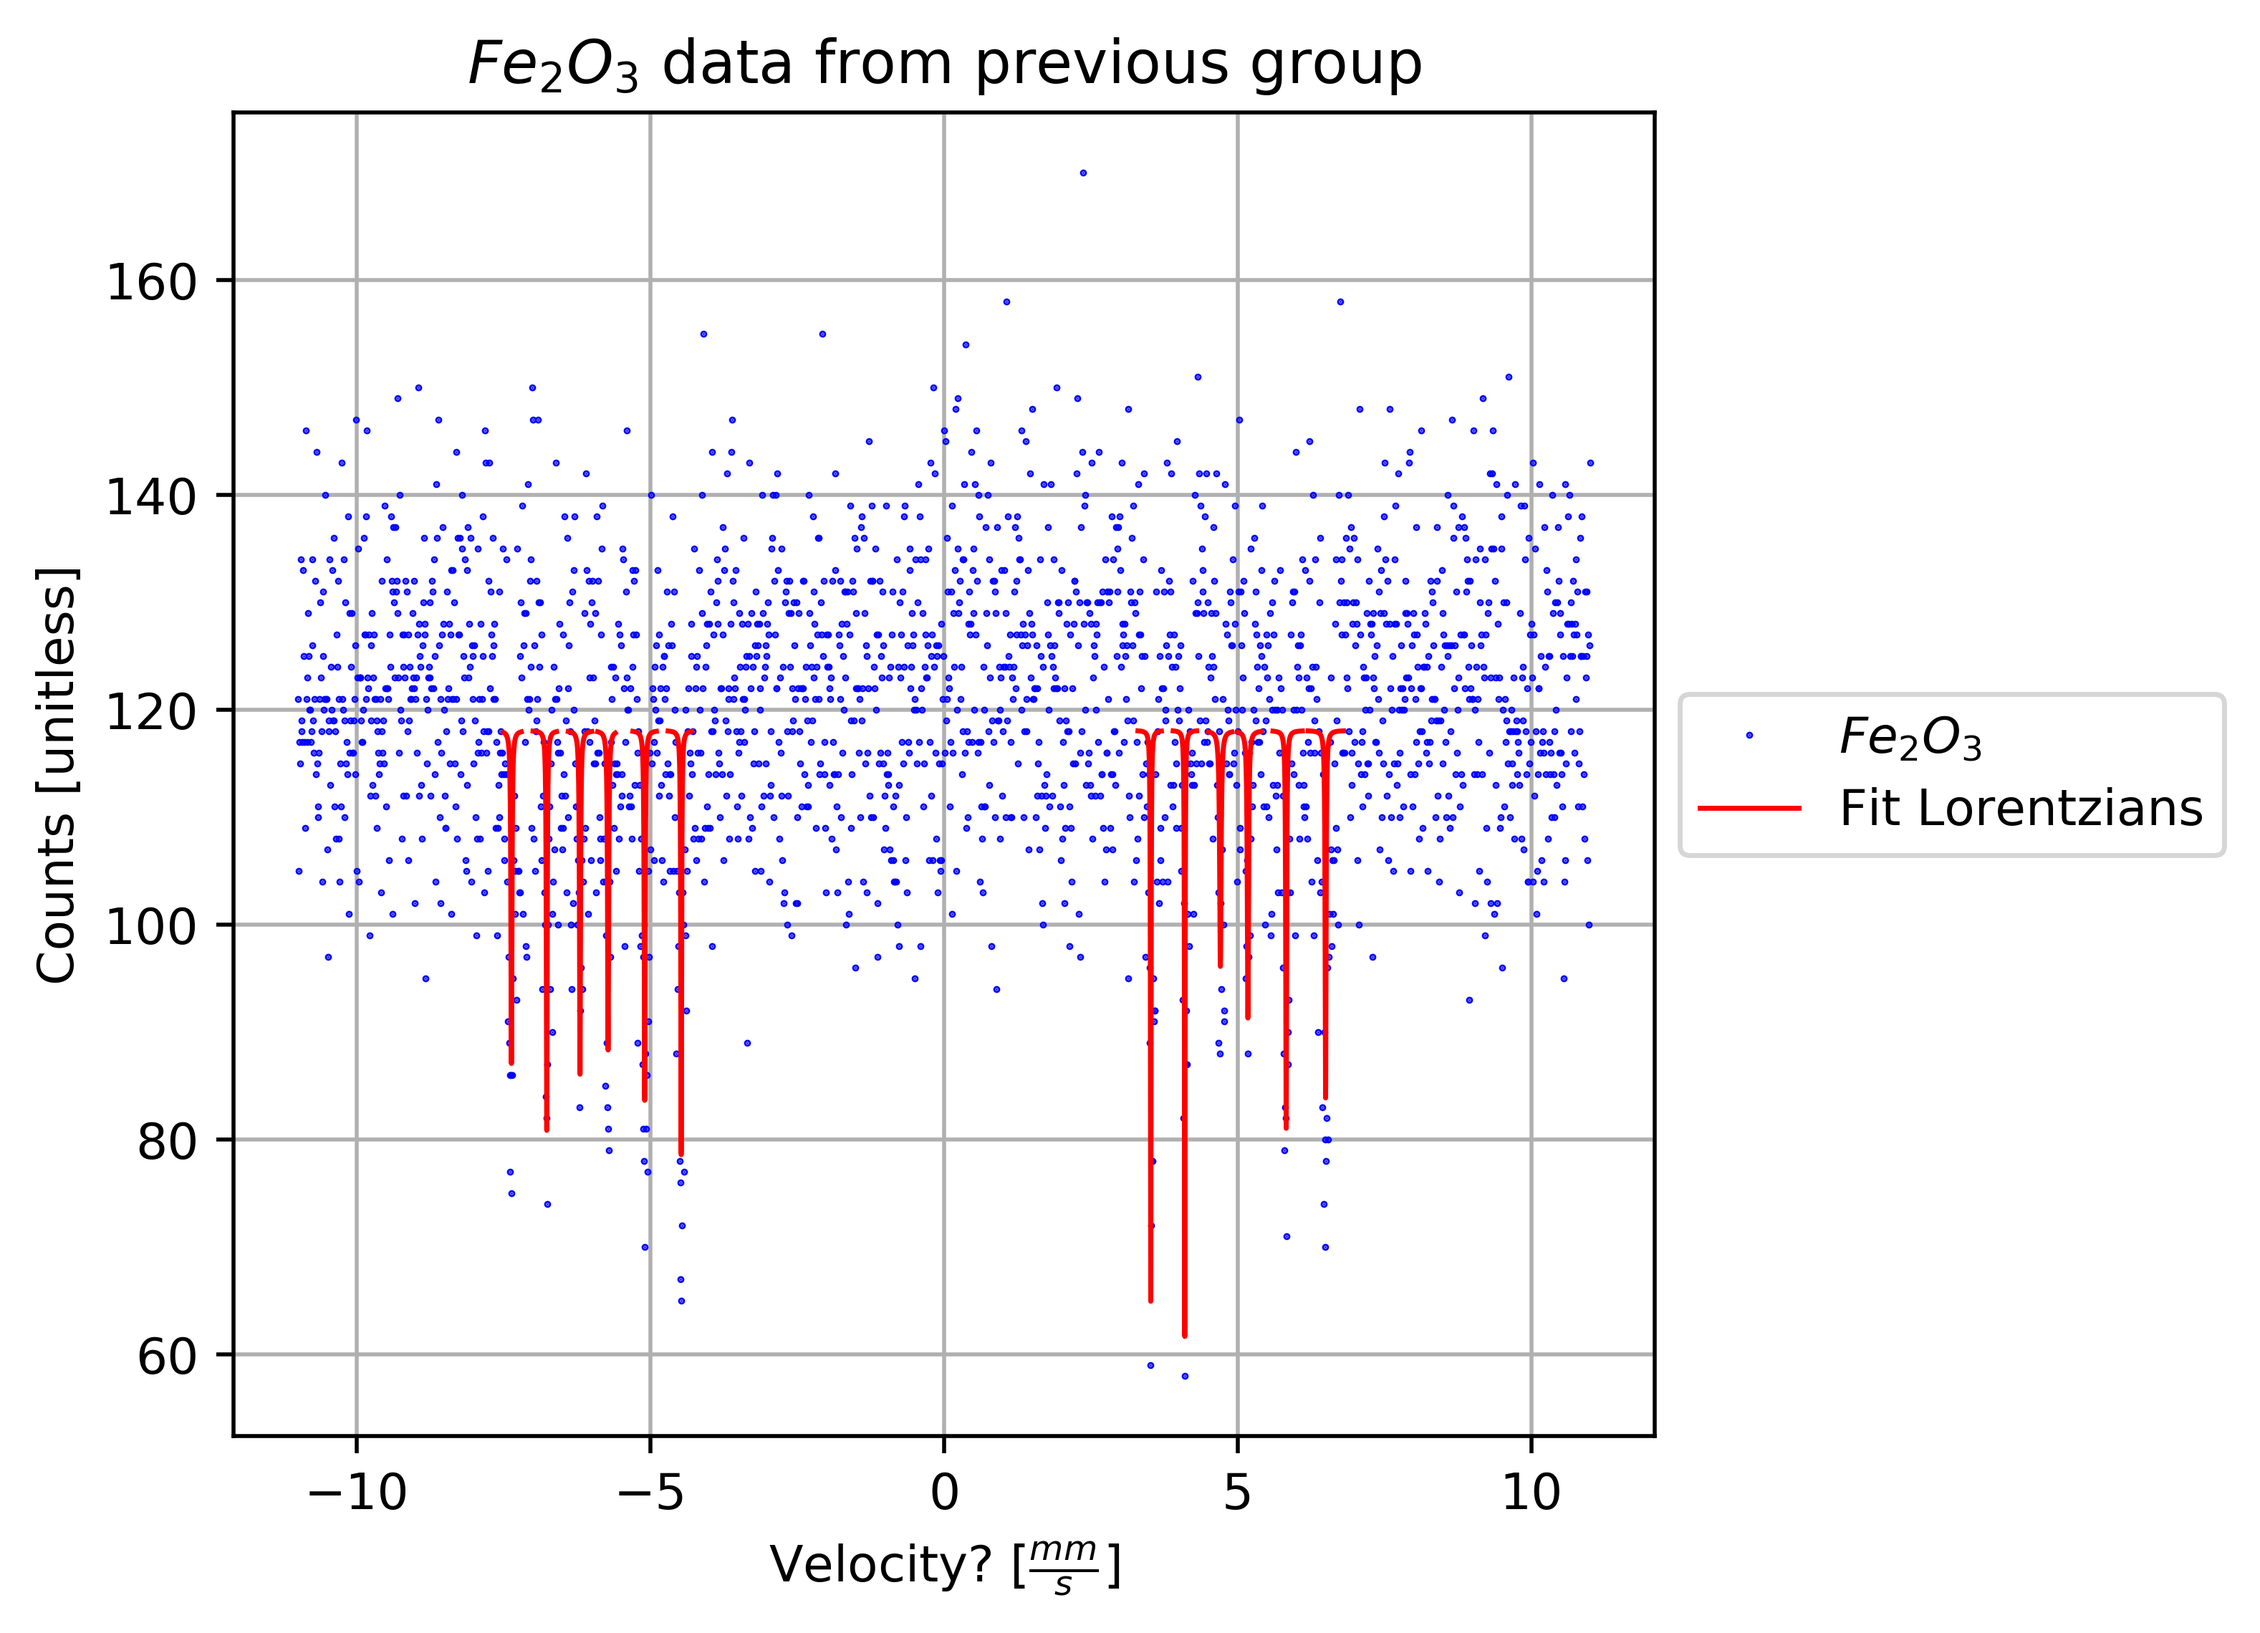
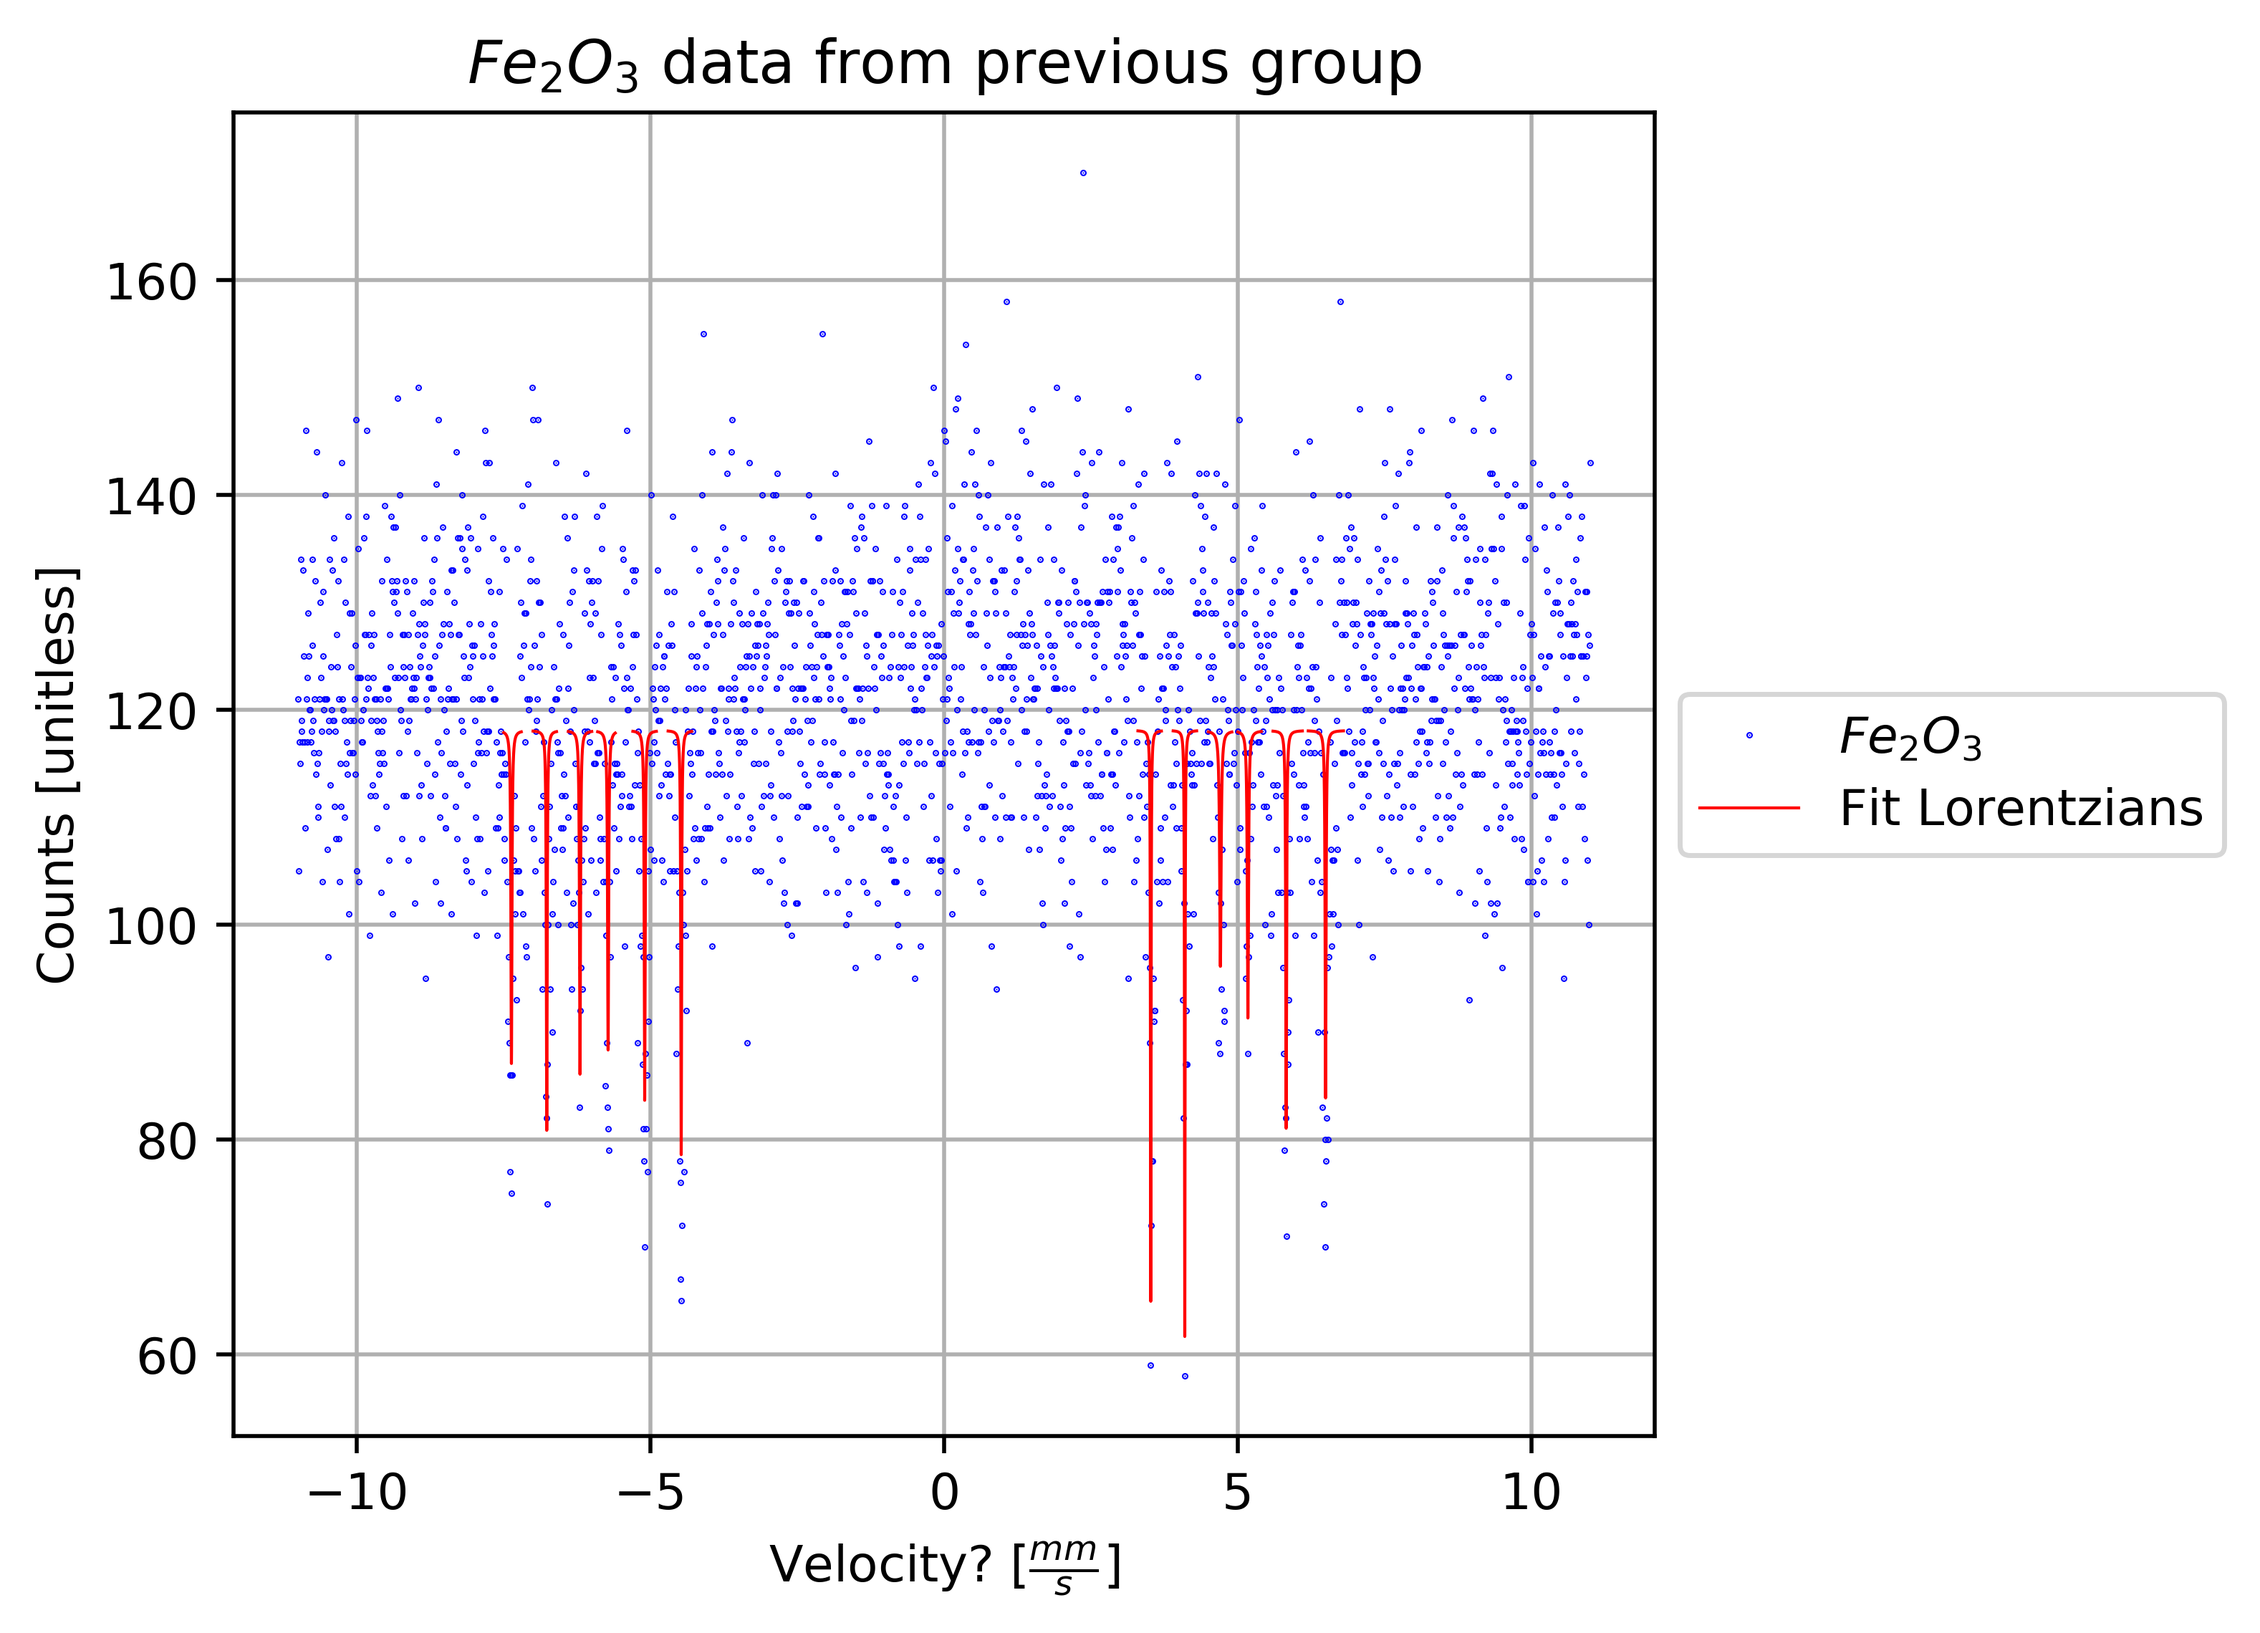
Refined script to only fit once
also writes fitting results to file

diff --git a/MossbauerScript.py b/MossbauerScript.py
@@ -105,14 +105,11 @@ def convertToVelocity(xBins, lims=[-11,11]):
 # 	f.write(str(testX[i])+"	"+str(testY[i])+"\n")
 # f.close()
 
-
-
 # sixdat = rp.readColumnFile(dataFolder+"testsixpeaks.dat")
 # Xs, Ys = sixdat[0], sixdat[1]
 # rp.plotInit(xAx=r"Xs [unitless]", yAx=r"Ys [unitless]",plotTitle=r"test six lorentzians")
 # rp.plotData(Xs, Ys, 0, 0, dataLabel=r"default", colour="Blue")
 # rp.plotOutput(plotsFolder+"testsixpeaks.png")
-
 
 # # quick simple lorentzian line shape test data written to file and plotted from file
 # xData = [i*0.1 for i in range(0,100)]
@@ -129,6 +126,7 @@ def convertToVelocity(xBins, lims=[-11,11]):
 # rp.plotData(Xs, Ys, 0, 0, dataLabel=r"default", colour="Blue")
 # rp.plotOutput(plotsFolder+"testplot.png")
 # ################### End of code to create the test data files ###############################
+
 
 
 # #################### Fit six Lorentzians ####################
@@ -150,6 +148,7 @@ def convertToVelocity(xBins, lims=[-11,11]):
 # 	rp.plotData(x, fitys, 0, 0, dataLabel=r"Fits", colour="Orange",lines = 'True')
 # rp.plotOutput()
 # ################### End Fit six Lorentzians ####################
+
 
 
 # organized the cuts and guesses into order, should be very accurate to true values
@@ -184,58 +183,10 @@ cuts = [
 # 		]
 
 
-#Good guesses (work for Jake)
-# cuts = [[6.2, 6.8], [5.6, 6.0], [5.10, 5.23], [4.63, 4.80], [3.95, 4.25], [3.4, 3.67]]
-# guesses = [[6.5, 70, 100], [5.8, 71, 100], [5.17, 88, 100], [4.7, 85, 100], [4.1, 55, 100], [3.51, 60, 100]]
-
-
 # Read in Data:
 dat = readCSV(dataFolder+"Fe2O3_05-02-2019_new.csv")
 xData, yData, yErr, time = dat[0], dat[1], dat[2], dat[3]
 xData = convertToVelocity(xData, [-11,11])
-
-# Plot Data:
-
-# # Plot Fits:
-# rp.plotInit(xAx=r"Velocity? $[\frac{mm}{s}]$", yAx=r"Counts [unitless]",plotTitle=r"$Fe_2O_3$ data from previous group")
-# rp.plotData(xData, yData, 0, yErr, dataLabel=r"$Fe_2O_3$", colour="Blue")
-# for i in rel(cuts):
-# 	fitX, fitY, popt, pcov = fitOneLorentzian(xData, yData, yErr, cut=cuts[i])#, guess=guesses[i], bounds=([cuts[i][0],-np.inf,100],[cuts[i][1],np.inf,140]))
-# 	if i == 0:
-# 		rp.plotData(fitX, fitY, 0, 0, dataLabel=r"Fit Lorentzians", colour="Red", lines=True)
-# 	else:
-# 		rp.plotData(fitX, fitY, 0, 0, dataLabel=None, colour="Red", lines=True)
-# rp.plotOutput(plotsFolder+"FitData.png")
-
-
-# # Plot Fits separately:
-# totalX = np.linspace(min(xData), max(xData), num=22*1000)
-# for i in rel(cuts):
-# 	fitX, fitY, popt, pcov = fitOneLorentzian(xData, yData, yErr, cut=cuts[i])#, guess=guesses[i], bounds=([cuts[i][0],-np.inf,100],[cuts[i][1],np.inf,140]))
-# 	totalY = fd.fitYs(totalX, popt, lorentzian)
-
-# 	rp.plotInit(xAx=r"Velocity? $[\frac{mm}{s}]$", yAx=r"Counts [unitless]",plotTitle=r"$Fe_2O_3$ data from previous group")
-# 	rp.plotData(xData, yData, 0, yErr, dataLabel=r"$Fe_2O_3$", colour="Blue")
-# 	rp.plotData(totalX, totalY, 0, 0, dataLabel=r"Fit Lorentzians", colour="Red", lines=True)
-# 	rp.plotData([cuts[i][0],cuts[i][1]], [50,50], 0, 0, dataLabel="Fitting Range", colour="Green", lines=True)
-# 	rp.plotOutput(plotsFolder+"bounded_"+str(i)+"_fitLorenztian"+".png")
-
-
-# # Plot Fits only:
-# rp.plotInit(xAx=r"Velocity? $[\frac{mm}{s}]$", yAx=r"Counts [unitless]",plotTitle=r"$Fe_2O_3$ data from previous group")
-# totalY = np.linspace(0, 0, num=22*1000)
-# totalX = np.linspace(min(xData), max(xData), num=22*1000)
-# allHeights = []
-# print(totalY)
-# for i in rel(cuts):
-# 	fitX, fitY, popt, pcov = fitOneLorentzian(xData, yData, yErr, cut=cuts[i])#, guess=guesses[i], bounds=([cuts[i][0],-np.inf,100],[cuts[i][1],np.inf,140]))
-# 	fitY = fd.fitYs(totalX, popt, lorentzian)
-# 	totalY += (np.array(fitY)-popt[2])
-# 	allHeights.append(popt[2])
-
-# totalY = totalY+avg(allHeights)
-# rp.plotData(totalX, totalY, 0, 0, dataLabel=r"Fit Lorentzians", colour="Red", lines=True)
-# rp.plotOutput(plotsFolder+"allFitsOnlyFits.png")
 
 
 # plot raw data with error bars
@@ -243,14 +194,43 @@ rp.plotInit(xAx=r"Velocity? $[\frac{mm}{s}]$", yAx=r"Counts [unitless]",plotTitl
 rp.plotData(xData, yData, 0, yErr, dataLabel=r"$Fe_2O_3$", colour="Blue")
 rp.plotOutput(plotsFolder+"DataErrorBars.png")
 
-
 # fit things
 fittingOutput = []
 for i in rel(cuts):
 	fitX, fitY, popt, pcov = fitOneLorentzian(xData, yData, yErr, cut=cuts[i])
 	fittingOutput.append([cuts[i], fitX, fitY, popt, pcov])
 
+# print results to file
+f = open(dataFolder+"fittingresults.dat","w+")
+header = "Lower Cut\tUpper Cut\tx0\td\ta\tCovariance Matrix(formatted row1 row2 row3)\n"
+f.write(header)
+for i in rel(fittingOutput):
+	cut, fitX, fitY, popt, pcov = fittingOutput[i]
+	cov1, cov2, cov3 = pcov[0], pcov[1], pcov[2]
+	lineToWrite = str(cut[0]) + "\t" + str(cut[1]) + "\t" + str(popt[0]) + "\t" + str(popt[1]) + "\t" + str(popt[2]) + "\t" + str(cov1[0]) + "\t" + str(cov1[1]) + "\t" + str(cov1[2]) + "\t" + str(cov2[0]) + "\t" + str(cov2[1]) + "\t" + str(cov2[2]) + "\t" + str(cov3[0]) + "\t" + str(cov3[1]) + "\t" + str(cov3[2]) + "\n"
+	f.write(lineToWrite)
+f.close()
+
+
 # plot data and fits
+rp.plotInit(xAx=r"Velocity? $[\frac{mm}{s}]$", yAx=r"Counts [unitless]",plotTitle=r"$Fe_2O_3$ data from previous group")
+rp.plotData(xData, yData, 0, 0, dataLabel=r"$Fe_2O_3$", colour="Blue")
+for i in rel(fittingOutput):
+	cut, fitX, fitY, popt, pcov = fittingOutput[i]
+	x0 = ufloat(popt[0], m.sqrt(pcov[0][0]))
+	d = ufloat(popt[1], m.sqrt(pcov[1][1]))
+	a = ufloat(popt[2], m.sqrt(pcov[2][2]))
+	fitYErrors = []
+	for x in fitX:
+		y = lorentzian(x,x0,d,a)
+		fitYErrors.append(y.s)
+	if i == 0:
+		rp.plotData(fitX, fitY, 0, fitYErrors, dataLabel=r"Fit Lorentzians", colour="Red", lines=True)
+	else:
+		rp.plotData(fitX, fitY, 0, fitYErrors, dataLabel=None, colour="Red", lines=True)
+rp.plotOutput(plotsFolder+"FitDataErrors.png")
+
+# plot fits and their errors
 rp.plotInit(xAx=r"Velocity? $[\frac{mm}{s}]$", yAx=r"Counts [unitless]",plotTitle=r"$Fe_2O_3$ data from previous group")
 rp.plotData(xData, yData, 0, 0, dataLabel=r"$Fe_2O_3$", colour="Blue")
 for i in rel(fittingOutput):
@@ -260,7 +240,6 @@ for i in rel(fittingOutput):
 	else:
 		rp.plotData(fitX, fitY, 0, 0, dataLabel=None, colour="Red", lines=True)
 rp.plotOutput(plotsFolder+"FitData.png")
-
 
 # plot the fits together
 rp.plotInit(xAx=r"Velocity? $[\frac{mm}{s}]$", yAx=r"Counts [unitless]",plotTitle=r"$Fe_2O_3$ data from previous group")
@@ -276,13 +255,17 @@ totalY = totalY+avg(allHeights)
 rp.plotData(totalX, totalY, 0, 0, dataLabel=r"Fit Lorentzians", colour="Red", lines=True)
 rp.plotOutput(plotsFolder+"allFitsOnlyFits.png")
 
-# print results to file
-f = open(dataFolder+"fittingresults.dat","w+")
-header = "Lower Cut\tUpper Cut\tx0\td\ta\tCovariant Matrix (formatted row1 row2 row3)\n"
-f.write(header)
+# plot along original data points (get residuals)
+rp.plotInit(xAx=r"Velocity? $[\frac{mm}{s}]$", yAx=r"Counts [unitless]",plotTitle=r"$Fe_2O_3$ data from previous group")
+totalY = np.linspace(0, 0, num=len(xData))
+allHeights = []
 for i in rel(fittingOutput):
 	cut, fitX, fitY, popt, pcov = fittingOutput[i]
-	cov1, cov2, cov3 = pcov[0], pcov[1], pcov[2]
-	lineToWrite = str(cut[0]) + "\t" + str(cut[1]) + "\t" + str(popt[0]) + "\t" + str(popt[1]) + "\t" + str(popt[2]) + "\t" + str(cov1) + "\t" + str(cov2) + "\t" + str(cov3) + "\n"
-	f.write(lineToWrite)
-f.close()
+	fitY = fd.fitYs(xData, popt, lorentzian)
+	totalY += (np.array(fitY)-popt[2])
+	allHeights.append(popt[2])
+totalY = totalY+avg(allHeights)
+rp.plotData(xData, totalY, 0, 0, dataLabel=r"Fit Lorentzians", colour="Red", lines=True)
+resid = np.array(yData)-totalY
+rp.plotData(xData, resid, 0, 0, dataLabel=r"Residuals", colour="Green", lines=True)
+rp.plotOutput(plotsFolder+"allFitsOAndResiduals.png")

diff --git a/ReadAndPlot.py b/ReadAndPlot.py
@@ -63,11 +63,11 @@ def plotInit(xAx=r"Xs [unitless]", yAx=r"Ys [unitless]",plotTitle=r"Default Titl
 # scatter to false will plot lines
 def plotData(dXs, dYs, eXs=0, eYs=0, dataLabel=r"default", colour="Blue", lines=False, rescaleX=1, rescaleY=1):
 	ax = plot.subplot(111)
+	plot.errorbar(dXs, dYs, xerr=eXs, yerr=eYs, ecolor=colour, fmt='none', elinewidth=0.2)
 	if lines:
-		plot.plot(dXs, dYs, label=dataLabel, color=colour, marker='', linestyle='-', linewidth=1.0)
+		plot.plot(dXs, dYs, label=dataLabel, color=colour, marker='', linestyle='-', linewidth=0.6)
 	else:
-		plot.plot(dXs, dYs, label=dataLabel, color=colour, marker='.', linestyle='', markersize=0.8)
-	plot.errorbar(dXs, dYs, xerr=eXs, yerr=eYs, ecolor=colour, fmt='none', elinewidth=0.4)
+		plot.plot(dXs, dYs, label=dataLabel, color=colour, marker='.', linestyle='', markersize=0.6)
 	ax.legend(loc='center left', bbox_to_anchor=(1, 0.5))
 
 # call once to show the plot
